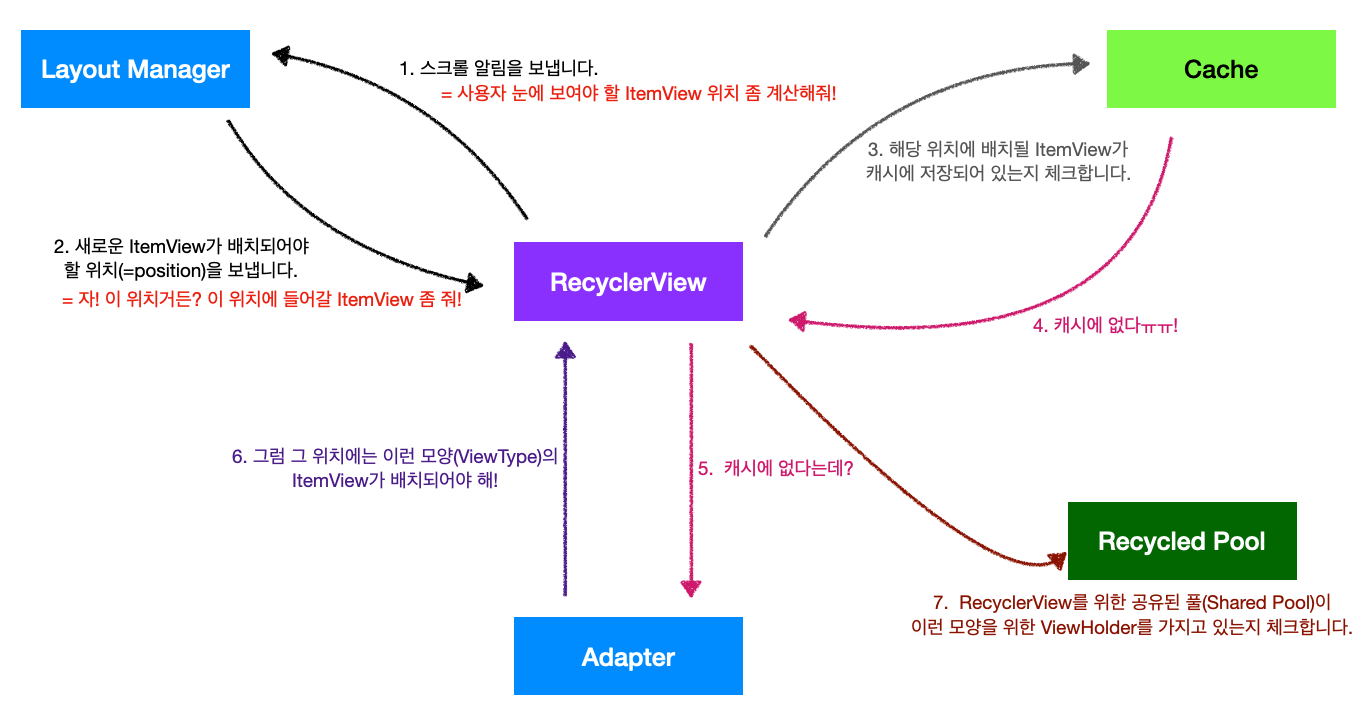
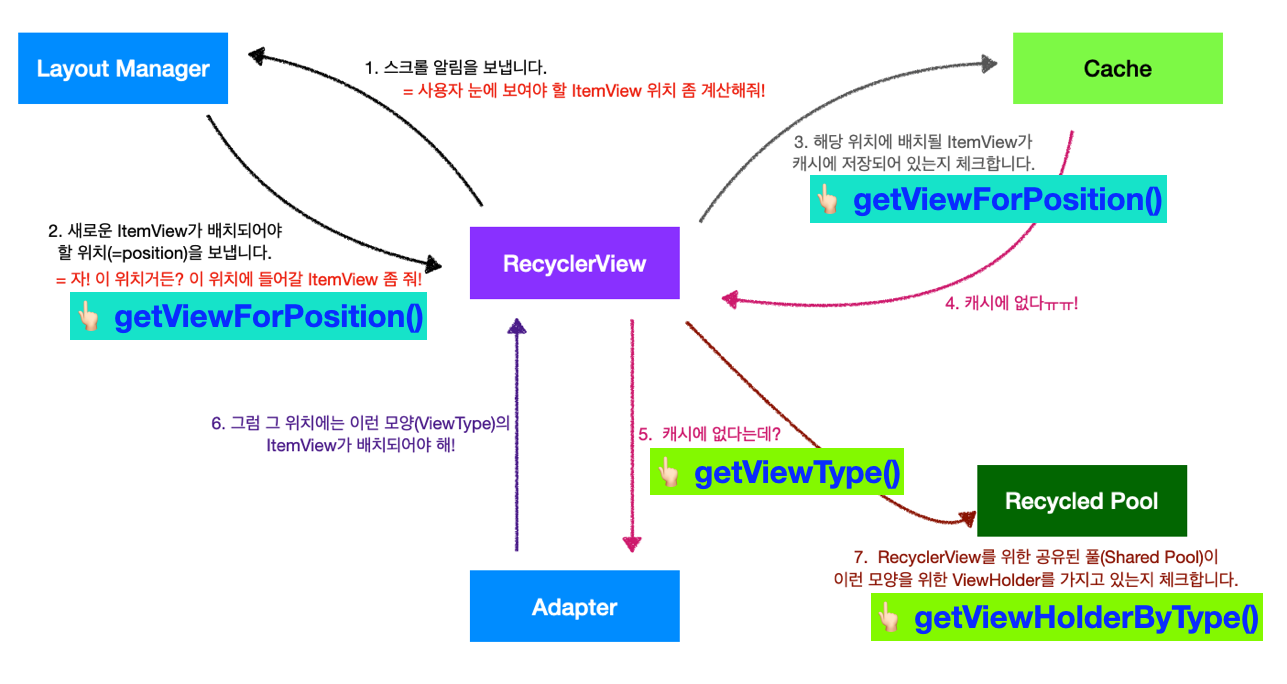
2021/04/05 블로그 포스팅

diff --git a/_posts/2021-03-10-recyclerview.md b/_posts/2021-03-10-recyclerview.md
@@ -33,75 +33,75 @@ categories: [안드로이드]
 
     * <img width="220" alt="02" src="https://user-images.githubusercontent.com/31889335/110606298-66ecb600-81cd-11eb-95e9-30a872fc3e92.png">
 
-    * (위 그림 참고) RecyclerView는 안드로이드 프레임워크에서 제공하는 뷰 레이아웃 중 하나입니다. RecyclerView의 모습은 위 그림(=이메일 앱에서 받은 편지 목록을 나타내는 화면)과 같습니다. '목록을 나타내는 뷰 레이아웃' 라고 생각하면 쉽습니다. 특히, 위 그림에서 빨간 박스로 표시한 부분이 목록을 나타내주는 뷰 안에서 '동일한 형태로 계속 반복'되고 있다는 것을 알 수 있습니다. '동일한 형태(=반복되는 Structure)'라는 말의 의미는 빨간 박스의 형태를 분석해보면 이해할 수 있습니다. 빨간 박스 안, 왼쪽 상단에 이메일을 보낸 사람의 이름을 보여주는 텍스트 뷰가 배치되어 있고, 그 아래 이메일의 제목을 보여주는 텍스트 뷰가 배치되어 있으며 그 아래에는 이메일의 내용을 미리 보여주는 텍스트 뷰가 배치되어 있습니다. 또 오른쪽 상단에 이메일을 받은 후 지난 시간을 보여주는 텍스트 뷰가 배치되어 있고, 그 아래 별표 모양의 뷰가 배치되어 있습니다. 이러한 모습인 빨간 박스 부분이 형태는 동일하게, 다만 데이터만 계속 바뀌면서! '목록을 나타내주는 뷰'를 이루고 있습니다. 즉, 목록을 나타내주는 뷰는 동일한 형태의 빨간 박스가 계속 반복되면서 '보낸 사람 이름', '이메일 제목', '이메일 내용' 등 빨간 박스 안 데이터만 바뀌는 뷰라고 이해할 수 있습니다.
+    * (위 그림 참고) RecyclerView는 안드로이드 프레임워크에서 제공하는 뷰 레이아웃 중 하나입니다. RecyclerView의 모습은 위 그림(=이메일 앱에서 받은 편지 목록을 나타내는 화면)과 같습니다. '목록을 나타내는 뷰 레이아웃' 라고 생각하면 쉽습니다. 특히, 위 그림에서 빨간 박스로 표시한 부분이 '동일한 형태로 계속 반복'되고 있다는 것을 알 수 있습니다. '동일한 형태(=반복되는 Structure)'라는 말의 의미는 빨간 박스의 형태를 분석해보면 이해할 수 있습니다. 빨간 박스 안을 보면 왼쪽 상단에는 이메일을 보낸 사람의 이름을 보여주는 텍스트 뷰가 배치되어 있고, 그 아래에는 이메일의 제목을 보여주는 텍스트 뷰가 배치되어 있으며 또 그 아래에는 이메일의 내용을 미리 보여주는 텍스트 뷰가 배치되어 있습니다. 오른쪽 상단에는 이메일을 받은 후 지난 시간을 보여주는 텍스트 뷰가 배치되어 있고, 그 아래에 별표 모양의 뷰가 배치되어 있습니다. 이러한  빨간 박스 부분이 __형태는 동일하게, 다만 데이터만 계속 바뀌면서__ '목록을 나타내주는 뷰'를 이루고 있습니다. 즉, 목록을 나타내주는 뷰는 동일한 형태의 빨간 박스가 계속 반복되면서 '보낸 사람 이름', '이메일 제목', '이메일 내용' 등 빨간 박스 안 데이터만 바뀌는 뷰라고 이해할 수 있습니다.
 
     * RecyclerView에서는 위에서 쉽게 표현하기 위해 '빨간 박스 부분'라고 언급한 부분을 'ItemView(아이템 뷰)'라고 부릅니다. 아이템 뷰들이 일렬로 나열되어 목록처럼 보이는 뷰 레이아웃을 RecyclerView라고 합니다. 
 
     * <img width="220" alt="02" src="https://user-images.githubusercontent.com/31889335/110943146-36984980-837e-11eb-9c35-e79f2202b2c3.png">
 
-    * (위 그림 참고 - [출처](http://www.digitstory.com/recyclerview-multiple-viewholders/)) 더 나아가서 RecyclerView를 구성하는 ItemView들이 모두 동일한 형태가 아닌 경우도 있을 수 있습니다. 위 그림을 보면 파란색 박스 부분과 핑크색 박스 부분은 둘 다 하나의 RecyclerView를 구성하는 ItemView지만 두 ItemView의 형태가 동일하지 않습니다. 파란색 박스 부분과 달리 핑크색 박스 부분에는 메시지를 표시하는 텍스트 뷰가 포함되어 있습니다. RecyclerView는 이렇게 목록을 이루는 ItemView의 형태가 동일하지 않은 경우에도 하나의 목록으로 구현할 수 있도록 도와줍니다.
+    * (위 그림 참고 - [출처](http://www.digitstory.com/recyclerview-multiple-viewholders/)) 더 나아가서 RecyclerView를 구성하는 ItemView들이 모두 동일한 형태가 아닌 경우도 있을 수 있습니다. 위 그림을 보면 파란색 박스 부분과 핑크색 박스 부분은 둘 다 하나의 RecyclerView를 구성하는 ItemView지만 두 ItemView의 형태가 동일하지 않습니다. 파란색 박스 부분과 달리 핑크색 박스 부분에는 메시지를 표시하는 텍스트 뷰가 포함되어 있습니다. RecyclerView는 이렇게 목록을 이루는 ItemView의 형태가 동일하지 않은 경우에도 하나의 목록으로 구현할 수 있도록 도와줍니다. 또한 ItemView의 형태를 'ItemViewType' 또는 'ViewType' 이라고 합니다.
 
 * __안드로이드 프레임워크가 제공하는 RecyclerView는 어디에 구현되어 있을까?__
 
-    * RecyclerView는 Android Jetpack의 구성 요소 중 하나입니다. 즉, 안드로이드 프레임워크에서 라이브러리 형식으로 제공하고 있어 개발자는 이 라이브러리를 가져다 사용하면 되고 원하는 모양으로 만들기 위해 적절히 응용하기만 하면 됩니다.
+    * RecyclerView는 Android Jetpack의 구성 요소(Component) 중 하나입니다. 즉, 안드로이드 프레임워크에서 라이브러리 형식으로 제공하고 있기 때문에 개발자는 RecyclerView에 관련된 라이브러리를 가져다 사용하면 되고 원하는 모양으로 만들기 위해 적절히 응용하기만 하면 됩니다.
 
     * <img width="886" alt="03" src="https://user-images.githubusercontent.com/31889335/110795213-f1aadf00-82b9-11eb-8af6-43a6d030c511.png">
 
-    * (위 그림 참고) [Jetpack RecyclerView에 관한 라이브러리 문서](https://developer.android.com/jetpack/androidx/releases/recyclerview?hl=ko)를 보면 RecyclerView는 __androidx.recyclerview__ 라는 이름의 패키지로 제공되는 Jetpack 라이브러리임을 알 수 있습니다. 2018년 12월에 1.1.0-alpha01 버전이 처음 배포되었고 최근 2021년 2월까지 지속적으로 업데이트되고 있는 라이브러리임을 알 수 있습니다. androidx.recyclerview 패키지 안에는 2개의 API가 포함되어 있는데 이 2개의 API는 __androidx.recyclerview.widget__ 과 __androidx.recyclerview.selection__ 이라는 패키지로 묶여 제공됩니다. 
+    * (위 그림 참고) [Jetpack RecyclerView에 관한 라이브러리 문서](https://developer.android.com/jetpack/androidx/releases/recyclerview?hl=ko)를 보면 RecyclerView는 __androidx.recyclerview__ 라는 이름의 패키지로 제공되는 Jetpack 라이브러리임을 알 수 있습니다. 2018년 12월에 1.1.0-alpha01 버전이 처음 배포되었고 최근 2021년 2월까지 지속적으로 업데이트되고 있는 라이브러리입니다. androidx.recyclerview 패키지 안에는 2개의 API가 포함되어 있는데 이 API는 __androidx.recyclerview.widget__ 과 __androidx.recyclerview.selection__ 이라는 패키지로 묶여 제공되고 있습니다.
 
-        * 패키지(Package) : 자바에서 클래스를 체계적으로 관리하기 위해 사용하는 것입니다. 패키지의 형태는 파일 시스템의 '폴더'와 비슷합니다. 하지만 '폴더'와 자바의 '패키지'의 차이점은 패키지는 자바 클래스를 유일하게 만들어주는 식별자 역할도 한다는 점입니다. 예를 들어, Test라는 이름의 자바 클래스가 존재하고 이 클래스가 com.android라는 이름의 패키지 안에 포함된다고 가정해봅시다. 이 때 Test클래스의 전체 이름을 com.android.Test.class 라고 부를 수 있습니다. 따라서 클래스의 이름이 같아도 다른 패키지에 포함되어 있으면 서로 다른 클래스로 인식됩니다. (참고 - https://yolojeb.tistory.com/8)
+        * 패키지(Package) : 자바에서 클래스를 체계적으로 관리하기 위해 사용하는 것입니다. 패키지의 형태는 파일 시스템의 '폴더'와 비슷합니다. 하지만 '폴더'와 자바의 '패키지'의 차이점은 패키지는 자바 클래스를 유일하게 만들어주는 식별자 역할도 한다는 점입니다. 예를 들어, Test라는 이름의 자바 클래스가 존재하고 이 클래스가 com.android라는 이름의 패키지 안에 포함된다고 가정해봅시다. 이 때 Test 클래스의 전체 이름을 com.android.Test.class 라고 부를 수도 있습니다. 따라서 클래스의 이름이 같아도 다른 패키지에 포함되어 있으면 서로 다른 클래스로 인식됩니다. (참고 - https://yolojeb.tistory.com/8)
         
-        * androidx.recyclerview 라는 이름의 패키지는 하위 폴더로 widget과 selection 라는 폴더를 가지고 있는 것입니다. 또한 각 폴더 안에 RecyclerView를 동작하게 하는 내부 클래스들이 실제로 구현되어 있습니다. 내부 클래스 파일들이 폴더(패키지)로 묶여 제공되는 것입니다.
+        * androidx.recyclerview 라는 이름의 패키지는 하위 폴더로 widget과 selection 라는 폴더를 가지고 있는 것입니다. 또한 각 폴더 안에 RecyclerView를 동작하게 하는 내부 클래스들이 실제로 구현되어 있습니다. 내부 클래스 파일들이 패키지로 묶여 제공되는 것입니다.
 
 * __RecyclerView가 왜 등장했을까?(ListView(리스트 뷰) 라는 것이 있었다!)__
 
-    * RecyclerView가 등장하기 전, 안드로이드 프레임워크은 '목록 뷰'를 만들 때 사용하도록 [ListView](https://developer.android.com/reference/android/widget/ListView) 라는 것을 제공했습니다. 이 ListView를 사용해도 RecyclerView와 모양이 비슷한 '목록 뷰'를 만들 수 있습니다. 또한 ListView는 API level 1(Android 1.0) 때 등장한 것으로 안드로이드 프레임워크이 꽤 오랫동안 제공하던 API였습니다. 그럼 이미 ListView라는 것이 존재함에도 불구하고 2018년에 왜 RecyclerView가 새롭게 등장했을까요?
+    * RecyclerView가 등장하기 전, 안드로이드 프레임워크는 '목록 뷰'를 만들 때 사용하도록 [ListView](https://developer.android.com/reference/android/widget/ListView) 라는 것을 제공했습니다. 이 ListView를 사용해도 RecyclerView와 모양이 비슷한 '목록 뷰'를 만들 수 있습니다. 또한 ListView는 API level 1(=Android 1.0 버전 때 출시된 API) 때 등장한 것으로 안드로이드 프레임워크가 꽤 오랫동안 제공하던 API였습니다. 그럼 이미 ListView라는 것이 존재함에도 불구하고 2018년에 왜 RecyclerView가 새롭게 등장했을까요?
 
-    * ListView에는 고질적인 문제가 있었기 때문입니다. ListView에 들어가는 ItemView의 갯수가 수백 개, 수천 개 이상으로 많아질 경우 ListView가 ItemView를 생성하는 __속도가 매우 느려졌기__ 때문입니다. 특히, 안드로이드의 초창기 디바이스는 메모리 용량이 요즘의 디바이스에 비해 매우 작았고 그로 인해 메모리가 제한적이어서 더욱 느렸습니다. 따라서 ListView를 사용해 한 번에 많은 수의 ItemView를 생성하는 것이 쉽지 않았습니다. 즉, ListView에 많은 수의 ItemView를 넣으면 앱 성능(App Performance)적인 측면에서 좋지 않았습니다.
+    * ListView에는 고질적인 문제가 많았기 때문입니다. ListView에 들어가는 ItemView의 갯수가 수백 개, 수천 개 이상으로 많아질 경우 ListView가 ItemView를 생성하는 __속도가 매우 느려지는__ 문제가 존재했습니다. 특히, 안드로이드 운영체제를 탑재했던 옛날 디바이스는 메모리 용량이 요즘의 디바이스에 비해 매우 작았고 그로 인해 메모리가 제한적이어서 더욱 느렸습니다. 따라서 ListView를 사용해 한 번에 많은 수의 ItemView를 생성하는 것이 쉽지 않았습니다. 즉, ListView에 많은 수의 ItemView를 넣으면 앱 성능(App Performance)적인 측면에서 좋지 않았습니다.
 
-    * 그렇다면 어떻게 해야 많은 수의 ItemView를 한 번에 빠르게 만들 수 있을까요? 이에 대한 해결책으로 많은 개발자들은 '속임수(smoke and mirrors = 진실 은폐)'를 사용하는 방법을 선택했습니다. 속임수는 바로 __유저의 눈에 당장 보이는 ItemView만 생성하자!__ 였습니다. ListView가 처음 뜨는 화면에는 유저의 눈에 당장 보여야 하는 ItemView만 한 번에 생성하여 보여주고, 그 후에 유저가 스크롤을 하게 되어 새로운 ItemView들이 새로 보이기 시작하면 그 때 새롭게 보이는 ItemView만 계속적으로 생성하는 방법입니다. 마치 [이 영상](https://youtu.be/t8T8bStabq0?t=100)에서 강아지가 기차를 타고 가는데 기찻길을 직접 놓으면서 가는 것과 비슷한 방법입니다.(~~링크로 걸어 놓은 애니메이션 어렸을 때 많이 봤었는데 .. RecyclerView 공부하다가 추억에 빠진다 ㅎㅎ~~)
+    * 그렇다면 어떻게 해야 많은 수의 ItemView를 한 번에 빠르게 만들 수 있을까요? 이에 대한 해결책으로 많은 개발자들은 '속임수'를 사용하는 방법을 선택했습니다. 이 속임수는 바로 __유저의 눈에 당장 보이는 ItemView만 생성하자!__ 였습니다. ListView가 처음 뜨는 화면에는 유저의 눈에 당장 보여야 하는 ItemView만 한꺼번에 생성하여 보여주고, 그 후에 유저가 스크롤을 하게 되어 새로운 ItemView들이 새로 보여야 한다면 그 때 새롭게 보이는 ItemView만 생성하는 방법입니다. 마치 [이 영상](https://youtu.be/t8T8bStabq0?t=100)에서 강아지가 기차를 타고 가는데 기찻길을 직접 놓으면서 가는 것과 비슷한 방법입니다.(~~링크로 걸어 놓은 애니메이션 어렸을 때 많이 봤었는데 .. RecyclerView 공부하다가 추억에 빠진다 ㅎㅎ~~)
 
-    * 기존 ListView의 기본 내부 동작 원리는 앞서 설명한 것처럼 한 순간에 모든 ItemView를 생성하지 않고 유저의 눈에 보이는 ItemView만 생성함으로써 마치 ItemView를 생성하는 속도가 빠르게 보이는 것처럼 작동됐습니다.
+    * 즉, 기존 ListView의 내부 동작 원리에 의하면 한 순간에 모든 ItemView를 생성하지 않고 유저의 눈에 보이는 ItemView만 생성함으로써 마치 ItemView를 생성하는 속도가 빠르게 보이는 것 같았습니다.s
 
     * 이러한 내부 동작을 가능하게 하기 위해 ListView는 __Adapter__ 라는 것을 사용했습니다. Adapter는 ListView를 동작하게 하는 구성 요소(=Component, 컴포넌트) 중 하나입니다. Adapter는 ListView에 포함될 ItemView를 생성하고 ItemView에 데이터를 채워주는 역할을 했습니다. 개발자는 Adapter 클래스가 제공하는 getView()라는 메소드를 호출함으로써 Adapter가 생성하고 데이터까지 채워놓은 ItemView를 얻을 수 있습니다.(ListView 안에서 어느 위치(=position)에 어떤 ItemVIew가 들어가야 하는지도 Adapter가 알고 있었습니다.)  
  
-    * ListView는 앞서 설명했던 속임수 외에 또 다른 속임수가 하나 더 있었습니다. 위에서 ListView에 포함될 ItemView의 갯수가 100개지만 당장 유저의 눈에는 5개의 ItemView만 보이는 ListView가 존재한다면 이 ListView는 100개의 ItemView를 미리 모두 생성하지 않고 당장 보이는 5개의 ItemView만 생성하여 보여준다고 설명했습니다. 만약 유저가 스크롤을 내려서 6번째 ItemView가 새로 보여져야 한다면 어떤 일이 벌어질까요? ListView는 이 때 또 다른 속임수를 사용합니다. 이 때 Adapter는 새로운 ItemView를 생성하지 않고 __1번째 위치에 보여주기 위해 생성했던 ItemView를 그대로 재사용하여 6번째 ItemView로 제공__ 했습니다.(ItemView는 재사용하여 그대로 사용하고 6번째 ItemView에 들어갈 데이터만 변경해주는 방식입니다.) 단, 1번째 ItemView의 형태와 6번째 ItemView의 형태가 동일한 경우에만 재사용됩니다. 이러한 두 번째 속임수를 사용함으로써 6번째 ItemView를 생성하기 위해 사용되는 비용을 줄일 수 있었습니다.
+    * ListView는 앞서 설명했던 속임수 외에 또 다른 속임수가 하나 더 있었습니다. ListView에 포함될 ItemView의 갯수가 100개지만 당장 유저의 눈에는 5개의 ItemView만 보이는 ListView가 존재한다면 이 ListView는 100개의 ItemView를 미리 모두 생성하지 않고 당장 보이는 5개의 ItemView만 생성하여 보여준다고 설명했습니다. 만약 유저가 스크롤을 내린 행동의 결과로 6번째 ItemView가 새로 보여져야 한다면 어떤 일이 벌어질까요? 이 때 ListView는 또 다른 속임수를 사용합니다. 이 속임수는 바로 Adapter는 새로운 ItemView를 생성하지 않고 __1번째 위치에 보여주기 위해 생성했던 ItemView를 그대로 재사용하여 6번째 ItemView로 제공하자!__ 였습니다.(1번째 ItemView는 재사용하여 그대로 사용하고 6번째에 들어갈 데이터만 변경해주는 방식입니다.) 단, 1번째 ItemView의 ViewType과 6번째 ItemView의 ViewType이 동일한 경우에만 재사용됩니다.(=ItemView의 모양이 같아야함) 이러한 두 번째 속임수를 사용함으로써 6번째 ItemView를 생성하기 위해 사용되는 비용을 줄일 수 있었습니다.
 
-    * 점점 시간이 지나고.. ListView에는 이 두 개의 속임수를 사용한 기능 외에도 점점 더 많은 기능이 추가되어야 했습니다. 왜냐하면 ListView가 앱에서 너무 많이, 자주 사용되는 레이아웃이기 때문에 개발자들이 ListView API의 업데이트마다 요구하는 사항이 많아졌기 때문입니다. 따라서 Android API level이 새로 출시될 때마다 ListView에는 새로운 기능이 계속 추가되었습니다. ([여기](https://www.youtube.com/watch?v=wDBM6wVEO70)를 보면 ListView에 추가된 기능들을 확인할 수 있습니다.) Google은 점점 더 많아지는 요구 사항을 ListView API에 추가 구현하여 제공하려다 보니 너무 복잡해짐을 느꼈고 부가 기능들이 많아져 오히려 오작동을 하게 되는 경우도 있었습니다.
+    * 점점 시간이 지나고.. ListView에는 이 두 개의 속임수를 사용한 기능 외에도 점점 더 많은 기능이 추가되어야 했습니다. 왜냐하면 ListView가 앱에서 너무 많이, 자주 사용되는 레이아웃이기 때문에 개발자들이 ListView API의 업데이트마다 바라는 요구사항이 많아졌기 때문입니다. 따라서 Android API level이 새로 출시될 때마다 ListView에는 새로운 기능이 계속 추가되었습니다. Google은 점점 더 많아지는 요구 사항을 ListView API에 추가 구현하여 제공하려다 보니 너무 복잡해짐을 느꼈고 부가 기능들이 많아져 오히려 오작동을 일으키게 되는 경우도 있었습니다.
 
-    * 결국 많은 요구 사항들을 ListView에 추가하다 보니 안드로이드 프레임워크가 제공하는 __다른 뷰 레이아웃에서 이미 제공하고 있는 기능과 비슷한 기능들이 ListVie에 추가__ 되게 되었습니다. 예를 들어, ListView에 추가된 Selection이라는 기능은 View 클래스가 제공하는 Focus라는 기능과 역할이 중복되었습니다. View 클래스는 현재 포커스 된 뷰를 다루는 기능을 제공하고 있었습니다. 그러나 ListView의 Selection도 이와 비슷하게 현재 포커스 된 ItemView를 다루는 기능이였습니다. 또 추가된 ItemView 클릭 리스너 기능과 View 클릭 리스너 기능도 비슷한 기능이였습니다. ListView가 제공하는 ItemView 클릭 리스너를 구현하면 유저가 ItemView를 클릭했을 때 실행할 로직을 작성할 수 있었습니다. 그러나 View 클래스에서 제공하는 클릭 리스너를 사용해서도 ItemView를 클릭했을 때 실행할 로직을 작성할 수 있었습니다. (ItemView 클래스가 View 클래스를 상속했기 때문) 따라서 개발자들은 대체 어느 것을 사용해야 하는가에 관한 질문을 지속적으로 문의했습니다.
+    * 결국 많은 요구 사항들을 ListView에 추가하다 보니 ListView의 기능이 안드로이드 프레임워크에서 이미 제공하고 있는 기능과 비슷한 것들이 생겨나기 시작했습니다. 예를 들어, ListView에 추가된 Selection이라는 기능은 View 클래스가 제공하는 Focus라는 기능과 역할이 중복되었습니다. View 클래스는 현재 포커스 된 뷰를 다루는 기능을 제공하는 것이었고, ListView의 Selection도 이와 비슷하게 현재 포커스 된 ItemView를 다루는 기능이였습니다. 또한 ItemView 클릭 리스너 기능과 View 클릭 리스너 기능도 비슷한 기능이였습니다. ListView가 제공하는 ItemView 클릭 리스너를 구현하면 유저가 ItemView를 클릭했을 때 실행할 로직을 작성할 수 있었습니다. 그러나 View 클래스에서 제공하는 View 클릭 리스너를 사용해서도 ItemView를 클릭했을 때 실행할 로직을 작성할 수 있었습니다. (ItemView 클래스가 View 클래스를 상속했기 때문) 따라서 개발자들은 대체 어떤 클릭 리스너를 사용해야 하는지에 관한 질문을 지속적으로 문의하기도 했습니다.
 
     * ![05](https://user-images.githubusercontent.com/31889335/110972166-09a85e80-839f-11eb-90e1-0ce68ce5f4e3.gif)
 
-    * (위 영상 참고 - [출처](https://www.youtube.com/watch?v=8MIfSxgsHIs)) 그러나 ListView가 가지고 있는 이슈들 중 최고봉은 __ListView의 ItemView 애니메이션을 구현하는 것이 정말 정말 어렵다__ 라는 문제였습니다. [이 영상](https://www.youtube.com/watch?v=8MIfSxgsHIs)을 보면 ListView 애니메이션을 구현하는 것이 왜 어려운지 알 수 있습니다. 이 영상에서 구현하고자 하는 애니메이션은 ItemView를 클릭하면 해당 ItemView가 fade out(서서히 사라지기) 애니메이션 처리되면서 결과적으로는 완전히 사라지는 것입니다.
+    * (위 영상 참고 - [출처](https://www.youtube.com/watch?v=8MIfSxgsHIs)) 그러나 ListView가 가지고 있는 문제들 중 최고봉은 __ListView의 ItemView 애니메이션을 구현하는 것이 정말 정말 어렵다__ 라는 문제였습니다. [이 영상](https://www.youtube.com/watch?v=8MIfSxgsHIs)을 보면 ListView 애니메이션을 구현하는 것이 왜 어려운지 알 수 있습니다. 이 영상에서 구현하고자 하는 애니메이션은 ItemView를 클릭하면 해당 ItemView가 fade out(=서서히 사라지기) 애니메이션 처리되면서 마침내 완전히 사라지는(=메모리에서 제거) 효과입니다.
 
     * ![06](https://user-images.githubusercontent.com/31889335/110972820-c4d0f780-839f-11eb-8013-cccadcfd79be.gif)
 
     * (위 영상 참고) ItemView를 하나씩 클릭했을 때는 원하는 대로 잘 동작하는 것 같지만 위 영상처럼 여러 개의 ItemView를 클릭한 후 바로 ListView를 빠르게 스크롤하면 몇 개의 ItemView가 아무 데이터도 가지고 있지 않은 빈 모습으로 중간 중간 보이는 현상이 발생합니다. 
     
-    * 이러한 현상은 ListView의 동작 원리가 ItemView를 재사용하도록 동작하기 때문에 발생합니다. 먼저, 유저가 ItemView를 클릭하면 해당 ItemView에 fade out 효과가 적용되기 시작합니다. 하지만 유저가 클릭과 동시에 ListView를 아래로 빠르게 스크롤 한다면 클릭한 ItemView는 fade out 효과가 시작되자마자 화면 밖으로 나가게 되어 유저의 눈에 보이지 않는 범위에 포함되게 됩니다. 
+    * 이러한 현상은 ListView의 동작 원리가 ItemView를 재사용하도록 동작하기 때문에 발생합니다. 먼저, 유저가 ItemView를 클릭하면 해당 ItemView에 fade out 효과가 적용되기 시작합니다. 하지만 유저가 클릭과 동시에 ListView를 위로 빠르게 스크롤 한다면 클릭한 ItemView는 fade out 효과가 시작되자마자 화면 밖으로 나가게 되어 유저의 눈에 보이지 않는 범위에 포함되게 됩니다. 
     
     * ListView 내부 동작에 의하면 유저의 눈에 보이지 않는 ItemView는 새롭게 보일 ItemView로 재사용됩니다. 따라서 이 ItemView는 fade out이 진행되고 있음과 동시에 재사용될 ItemView로 선택되게 됩니다.(fade out 효과가 완전히 완료될 때까지 시간이 걸리기 때문에 fade out 효과가 진행되고 있는 도중에 재사용 대상으로 선택되는 것입니다.) 
     
-    * 하지만 해당 ItemView는 fade out 효과가 완전히 끝난 후에야 메모리 상에서 삭제됩니다. 즉, fade out 효과가 진행되고 있는 한 내부적으로는 메모리 상에서 이 ItemView에 해당하는 객체(object)가 존재합니다. 따라서 fade out 효과가 진행 중인 객체와 재사용될 ItemView로 선택된 객체는 내부적으로 동일한 객체가 됩니다. 
+    * 그러나 이 ItemView는 fade out 효과가 완전히 끝난 후에야 메모리 상에서 제거됩니다. 즉, fade out 효과가 진행되고 있는 한 내부적으로는 메모리 상에서 이 ItemView에 해당하는 객체(object)가 여전히 존재합니다. 따라서 fade out 효과가 진행 중인 객체와 재사용될 ItemView로 선택된 객체는 메모리적으로 동일한 객체입니다.
     
-    * fade out 효과가 완전히 끝나면 이 ItemView에 해당하는 객체는 메모리 상에서 삭제됩니다. 하지만 이 객체는 재사용되기로 선택된 객체이기도 하기 때문에 ListView의 끝에 다시 붙어야 합니다. 그러나 fade out 효과 완료로 인해 메모리 상에서 사라져 버렸으니 ListView 입장에서는 새로운 데이터를 세팅할 재사용 ItemView가 존재하지 않게 됩니다. 따라서 사용자의 눈에도 중간 중간 데이터가 세팅되지 않은 빈 공간이 보이게 됩니다. 이것을 ListView의 '붕괴(disruption) 현상'이라고 부릅니다.
+    * fade out 효과가 완전히 끝나면 이 ItemView에 해당하는 객체는 메모리 상에서 삭제됩니다. 하지만 이 객체는 재사용되기로 선택된 객체이기도 하기 때문에 ListView의 끝에 다시 붙어야 합니다. 그러나 fade out 효과 완료로 인해 메모리 상에서 사라져 버린 경우, ListView 입장에서는 새로운 데이터를 세팅할 재사용 ItemView를 메모리에서 찾지 못하게 됩니다. 따라서 사용자의 눈에도 중간 중간 데이터가 세팅되지 않은 빈 공간이 보이게 됩니다. 이것을 ListView의 '붕괴(disruption) 현상'이라고 부릅니다.
 
     * ![07](https://user-images.githubusercontent.com/31889335/111035271-f1971480-845c-11eb-8b41-1b3ea3898bd6.gif)
 
-    * (위 영상 참고) ListView의 붕괴 현상을 해결하기 위해 안드로이드 프레임워크가 제공하는 [ViewPropertyAnimator](https://developer.android.com/reference/android/view/ViewPropertyAnimator) API를 사용하면 해결할 수 있습니다.(ViewPropertyAnimator은 Android level 12 때 추가된 API입니다.) ViewPropertyAnimator를 사용하면 fade out 효과가 진행 중인 아이템 뷰는 아직 작업이 진행 중인 객체로 인식되어 재사용될 ItemView로 선택되지 않습니다. 따라서 위 영상처럼 붕괴 현상이 해결됩니다.
+    * (위 영상 참고) ListView의 붕괴 현상을 해결하기 위해 안드로이드 프레임워크가 제공하는 [ViewPropertyAnimator](https://developer.android.com/reference/android/view/ViewPropertyAnimator) API를 사용하면 됩니다.(ViewPropertyAnimator은 Android level 12 때 추가된 API입니다.) ViewPropertyAnimator를 사용하면 fade out 효과가 진행 중인 아이템 뷰는 아직 작업이 진행 중인 객체로 인식되어 재사용될 ItemView로 선택되지 않습니다. 따라서 위 영상처럼 붕괴 현상이 해결됩니다.
 
     * <img width="360" alt="02" src="https://user-images.githubusercontent.com/31889335/111036153-1c836780-8461-11eb-8a59-4e5bbc76ef4f.png">
 
-    * (위 그림 참고) 사람들은 ListView를 더욱 복잡한 레이아웃으로 변형하여 개발하기 시작했습니다. 심지어 위 그림의 오른쪽에서 볼 수 있는 것 같은 엇갈린 그리드 레이아웃(staggered grid)도 등장했습니다.(심지어 엇갈린 모양이 화면 크기에 반응형으로 달라지기까지 해야했습니다.) 이러한 것들을 기존의 ListView API를 사용하여 구현하려면 개발자는 굉장히 많은 코드 수정을 해야했습니다. 특히, ItemView의 재사용을 담당하는 Adpater 클래스의 수정이 많았습니다. 
+    * (위 그림 참고) 사람들은 ListView를 더욱 복잡한 레이아웃으로 변형하여 개발하기 시작했습니다. 심지어 위 그림의 오른쪽에서 볼 수 있는 것 같은 엇갈린 그리드 레이아웃(=staggered grid layout)도 등장했습니다. 더 나아가 엇갈린 그리드 모양이 화면 크기에 따라 반응형으로 달라지기까지 해야했습니다. 이러한 것들을 기존의 ListView API를 사용하여 구현하려면 개발자는 굉장히 많은 코드 수정을 해야했습니다. 특히, ItemView의 재사용을 담당하는 Adpater 클래스의 수정이 많았습니다. 
 
-    * 개발자들은 ListView를 더 잘 응용하기 위해 __ViewHolder 패턴__ 이라는 것을 등장시켜 개발하곤 했습니다.(ViewHolder 패턴에 대해서는 조금 아래에서 설명할 예정입니다.) Google Android API 팀은 ViewHolder 패턴을 사용한 가장 좋은 코드 예제를 ListView API에 추가하기로 결정했습니다.
+    * 이러한 상황에서 개발자들은 ListView를 더 잘 응용하기 위해 __ViewHolder 패턴__ 이라는 것을 등장시켜 개발하곤 했습니다.(ViewHolder 패턴에 대해서는 조금 아래에서 설명할 예정입니다.) Google Android API 개발 팀은 ViewHolder 패턴을 사용한 가장 좋은 코드 예제를 ListView API에 아예 추가하기로 결정했습니다.
 
-    * 더불어 기존 ListView 구현 시 구글은 개발자들에게 ItemView를 생성하는 로직(onCreate)과 생성된 ItemView에 데이터를 연결(binding)시키는 로직(onBind)을 분리하길 권장했습니다. 따라서 개발자들은 if 조건문을 통해 재사용될 ItemView가 존재하면 바로 데이터를 재사용될 ItemView에 연결하고, 재사용될 ItemView가 존재하지 않으면(null) 새로운 ItemView를 생성하는 코드를 추가해야 했습니다. 하지만 이러한 로직 분리 작업을 많은 개발자들이 쉽게 까먹는 경우가 많았고, 그로 인해 ListView의 ItemView 재사용 기능이 동작하지 않게 되어 앱 성능을 악화시키는 원인이 되었습니다.
+    * 더불어 ListView를 구현할 때는 개발자이 직접 ItemView를 생성하는 로직(onCreate)과 생성된 ItemView에 데이터를 연결(binding)시키는 로직(onBind)을 분리하여 작성해야 했습니다. 즉, 개발자들은 if 조건문을 통해 재사용될 ItemView가 존재하면 바로 데이터를 해당 ItemView에 binding하고, 재사용될 ItemView가 존재하지 않으면(=if null) 새로운 ItemView를 생성하는 코드를 작성해야 했습니다. 하지만 이러한 로직 분리 작업을 많은 개발자들이 쉽게 까먹는 경우가 많았고, 그로 인해 ListView의 ItemView 재사용 기능이 정상적으로 동작하지 않게 되어 앱 성능을 악화시키는 원인이 되기도 했습니다.
  
-    * 또한 ListView에 보여질 데이터가 바뀐 경우, __기존의 ListView의 Adapter는 데이터가 변경되었다는 사실만 알 수 있을 뿐 구체적으로 목록에서 몇 번째 데이터가 변경되었는지 인식할 수 없었습니다.__ 예를 들어, 사용자의 눈에 보이고 있는 ItemView 중 세 번째 ItemView에 연결된 데이터가 어떠한 처리에 의해 바뀌게 되면 Adapter는 데이터가 바뀌었다는 사실만 알 뿐 몇 번째 ItemView에 연결된 데이터를 바꿔야 하는지는 알 수 없었습니다. 따라서 세 번째 ItemView의 데이터를 바꾸기 위해 모든 ItemView에 데이터를 다시 연결해야 했습니다. 이러한 문제는 애니메이션 처리를 더욱 어렵게 했습니다.
+    * 또한 ListView에 보여질 데이터가 변경된 경우, __ListView의 Adapter는 데이터가 변경되었다는 사실만 알 수 있을 뿐 구체적으로 목록에서 몇 번째 데이터가 변경되었는지 알 수 없었습니다.__ 예를 들어, 사용자의 눈에 보이고 있는 ItemView 중 세 번째 ItemView에 연결된 데이터가 어떠한 처리에 의해 바뀌게 되면 Adapter는 데이터가 바뀌었다는 사실만 알 뿐 몇 번째 ItemView에 연결된 데이터를 바꿔야 하는지는 알 수 없었습니다. 따라서 세 번째 ItemView의 데이터를 바꾸기 위해 모든 ItemView에 데이터를 다시 binding해야 했습니다. 이러한 문제는 애니메이션 처리까지 더욱 어렵게 했습니다.
 
-    * 이렇게 다양한 곳에서 문제점이 등장하기 시작하자 Google Android API 팀은 기존 ListView가 가지고 있던 문제점들을 해결한 새로운 API인 RecyclerView를 개발해 내놓게 되었습니다. RecyclerView는 ListView가 가지고 있던 실수와 문제들이 또 다시 반복되지 않도록 철저히 구현되었습니다. Google I/O 발표에 따르면 'Google Android API 개발 팀은 ListView를 통해 기존 ListView 설계에 존재했던 실수들을 깨닫게 되었다' 라고 말하면서 이 실수들을 다시는 반복하지 않고자 RecyclerView를 개발하게 되었다고 말하기도 합니다.
+    * 이렇게 다양한 곳에서 문제점이 등장하기 시작하자 Google Android API 개발 팀은 기존 ListView가 가지고 있던 문제점들을 해결한 새로운 API인 RecyclerView를 개발해 내놓게 되었습니다. RecyclerView는 ListView가 가지고 있던 실수와 문제들이 또 다시 반복되지 않도록 철저히 구현되었습니다. Google I/O 2016 발표에 따르면 'Google Android API 개발 팀은 ListView를 통해 기존 ListView 설계에 존재했던 실수들을 깨닫게 되었다' 라고 말하면서 이 실수들을 다시는 반복하지 않고자 RecyclerView를 개발하게 되었다고 말합니다.
 
 * __RecyclerView의 내부 동작__
 
@@ -109,7 +109,7 @@ categories: [안드로이드]
 
     * ![09](https://user-images.githubusercontent.com/31889335/111988900-73212d80-8b54-11eb-97ca-621a242dc35b.png)
 
-    * (위 그림 참고) RecyclerView 내부 아키텍처를 구성하는 컴포넌트는 RecyclerView, LayoutManager, Item Animator, Adapter 등 입니다. 그 중 __Layout Manager__, __Item Animator__, __Adapter__ 라는 3가지 컴포넌트가 가장 중요합니다. Layout Manager는 ItemView를 올바른 위치에 배치해주는 컴포넌트이고, Item Animator는 ItemView의 애니메이션을 담당하는 컴포넌트 입니다. Adapter는 RecyclerView에 ItemView를 제공해주는 컴포넌트 입니다. 이 3가지 컴포넌트가 적절하게 상호작용한 결과로 ItemView를 RecyclerView(목록형 레이아웃) 컴포넌트 안에 배치해줍니다.
+    * (위 그림 참고) RecyclerView 내부 아키텍처를 구성하는 컴포넌트는 RecyclerView, LayoutManager, Item Animator, Adapter 등 입니다. 그 중 __Layout Manager__, __Item Animator__, __Adapter__ 라는 3가지 컴포넌트가 중요합니다. Layout Manager는 ItemView를 올바른 위치(=position)에 배치해주는 컴포넌트이고, Item Animator는 ItemView의 애니메이션을 담당하는 컴포넌트 입니다. Adapter는 RecyclerView에 ItemView를 제공해주는 컴포넌트입니다. 이 3가지 컴포넌트가 적절하게 상호작용해야만 ItemView를 RecyclerView 컴포넌트 안에 바르게 배치할 수 있습니다.
 
     * 이렇게 RecyclerView, Layout Manager, Item Animator, Adapter 등의 컴포넌트가 서로 상호작용하여 하나의 목록형 레이아웃을 동작하게끔 만들기 때문에 RecyclerView 내부 아키텍처를 '컴포넌트 기반 아키텍처'라고 부릅니다.
 
@@ -119,42 +119,72 @@ categories: [안드로이드]
 
     * ![10](https://user-images.githubusercontent.com/31889335/111990090-f4c58b00-8b55-11eb-9461-f8f582a7320a.png)
 
-    * (위 그림 참고) Layout Manager는 목록형 레이아웃(=RecyclerView)의 모습을 __선형(Linear)__ 으로 구성할 수 있도록 또는 __격자형(Grid)__ 으로 구성할 수 있도록 또는 __엇갈린 격자형(Staggerd Grid)__ 으로 구성할 수 있게 해주는 작업을 담당하는 컴포넌트입니다.
+    * (위 그림 참고) Layout Manager는 RecyclerView의 모습을 __선형(Linear)__ 으로 구성할 수 있도록 또는 __격자형(Grid)__ 으로 구성할 수 있도록 또는 __엇갈린 격자형(Staggerd Grid)__ 으로 구성할 수 있게 해주는 작업을 담당하는 컴포넌트입니다.
 
-    * 즉, Layout Manger는 RecyclerView의 모양을 만드는 작업을 책임지고 RecyclerView 모양에 따라 ItemView를 적절한 위치에 배치하는 작업을 담당합니다. Layout Manager에게 이러한 책임이 부여되었기 때문에 RecyclerView 본인은 자기 자신이 선형 모양이 될지, 격자형 모양이 될지, 엇갈린 격자형 모양이 될지에 관해 알고 있지 않고, 각 ItemView가 어느 위치에 놓여야 하는지에 관해서도 관여하지 않습니다.
+    * 즉, Layout Manger는 RecyclerView의 모양을 만드는 작업을 책임지고, RecyclerView 모양에 따라 ItemView를 적절한 위치(=position)에 배치하는 작업을 담당합니다. Layout Manager에게 이러한 책임이 부여되었기 때문에 RecyclerView 본인은 자기 자신이 선형 모양이 될지, 격자형 모양이 될지, 엇갈린 격자형 모양이 될지에 관해 알고 있지 않고 각 ItemView가 어느 위치에 놓여야 하는지에 대해서도 관여하지 않습니다.
 
     * ![11](https://user-images.githubusercontent.com/31889335/111997193-22aecd80-8b5e-11eb-9e06-5355fa2ac121.png)
 
-    * (위 그림 참고) 만약 유저가 RecyclerView를 스크롤하고 있는 상황이라면 어떻게 동작할까요? RecyclerView는 유저의 손가락(스크롤 인식)과만 상호작용 합니다. 만약 Linear 모양의 RecyclerView가 존재하고 유저가 목록을 더 보기 위해 위로 스크롤했다고 가정해봅시다. 이러한 경우, RecyclerView는 유저 손가락과의 상호작용 결과로 새로운 ItemView를 보여줘야 한다는 것을 인식합니다. 하지만 새로운 ItemView를 그래서 어디에 배치해야 할 지에 관해서는 RecyclerView는 모르고 Layout Manager가 알고 있습니다. 따라서 RecyclerView는 Layout Manager에게 스크롤되어 새로운 ItemView를 보여줘야 한다고 알립니다. 스크롤 알림을 받은 Layout Manager는 적절한 위치(=이 상황에서는 목록 가장 아래에 새로운 ItemView 추가)에 데이터가 연결된 ItemView를 배치합니다. 즉, Layout Manager가 ItemView를 적절한 위치에 배치하는 순간에는 데이터가 ItemView에 연결되어 있는 상태입니다.
+    * (위 그림 참고) 만약 유저가 RecyclerView를 스크롤하고 있는 상황이라면 어떻게 동작할까요? RecyclerView는 유저의 손가락(스크롤 인식)과만 상호작용 합니다. 만약 Linear 모양의 RecyclerView가 존재하고 유저가 목록을 더 보기 위해 위로 스크롤했다고 가정해봅시다. 이러한 경우, RecyclerView는 유저 손가락과 상호작용의 결과로 새로운 ItemView를 보여줘야 한다는 것을 인식합니다. 하지만 새로운 ItemView를 그래서 어디에 배치해야 할 지에 관해서는 RecyclerView는 모르고 Layout Manager가 알고 있습니다. 따라서 RecyclerView는 Layout Manager에게 스크롤에 의해 새로운 ItemView를 보여줘야 한다고 알립니다. 스크롤 알림을 받은 Layout Manager는 적절한 위치(=위 상황에서는 목록 가장 아래에 새로운 ItemView를 추가해야 함)에 데이터가 연결된 ItemView를 배치합니다. 즉, Layout Manager가 ItemView를 적절한 위치에 배치하는 순간에는 데이터가 ItemView에 binding되어 있는 상태입니다.
 
 * __Adapter가 뭘까?__
 
-    * RecyclerView도 ListView와 마찬가지로 Adapter에 의존합니다. RecyclerView에서의 Adapter도 ItemView를 생성(create)하는 작업을 담당하는 컴포넌트 입니다. 하지만 ListView의 Adapter와 다른 점은 ItemView 생성 외에도 __ViewHolder라는 것을 생성__ 하는 작업도 담당하고 있다는 점입니다. __ViewHolder란__ ItemView 재사용을 위해 요소들을 추적 관측하는 용도로 사용하는 컴포넌트 입니다.(ViewHolder에 관해서는 조금 더 아래에서 설명할 예정입니다.)
+    * RecyclerView도 ListView와 마찬가지로 Adapter에 의존합니다. RecyclerView에서의 Adapter도 ItemView를 생성(create)하는 작업을 담당하는 컴포넌트 입니다. 하지만 ListView의 Adapter와 다른 점은 ItemView 생성 외에도 __ViewHolder라는 것을 생성__ 하는 작업도 담당하고 있다는 점입니다. (ViewHolder에 관해서는 조금 더 아래에서 설명할 예정입니다.)
 
-    * 또한 Adapter는 Data Set이 변경되었을 때 RecyclerView에게 알리는(=notify) 작업도 담당하며 유저가 ItemView를 클릭할 때 발생하는 상호작용(=클릭 리스너) 처리 작업도 담당합니다. 또 RecyclerView를 구성하는 ItemView의 형태가 동일하지 않고 다른 경우를 처리하는 작업도 Adapter가 담당합니다.
+    * 또한 Adapter는 Data Set이 변경되었을 때 RecyclerView에게 알리는(=notify) 작업도 담당하며 유저가 ItemView를 클릭할 때 발생하는 상호작용(=클릭 리스너) 처리 작업도 담당합니다. 또 RecyclerView를 구성하는 ItemView의 형태(=ViewType)가 동일하지 않고 다른 경우를 처리하는 작업도 Adapter가 담당합니다.
 
-* __ViewHolder가 뭘까?__
+* __ViewHolder의 lifecycle - 탄생편__
 
-    * 앞에서 Adapter가 생성한다고 언급한 ViewHolder는 무엇일까요? ViewHolder의 life cycle(=생명 주기, 탄생에서부터 소멸까지 과정)을 아는 것이 굉장히 중요합니다.
+    * 앞에서 Adapter가 생성한다고 했던 ViewHolder는 무엇일까요? ViewHolder가 무엇인지 알기 위해서는 __ViewHolder의 life cycle(=생명 주기, 탄생에서부터 소멸까지 과정)__ 을 아는 것이 굉장히 중요합니다.
 
-    * RecyclerView의 내부 동작을 구성하는 컴포넌트는 앞에서 언급한 Layout Manager, Adapter 등 외에도 Cache, Recycled Pool 등이 있습니다.
+    * RecyclerView의 내부 동작을 구성하는 컴포넌트는 앞에서 언급한 Layout Manager, Adapter 등 외에도 __Cache, Recycled Pool__ 등이 있습니다. 그럼 이제 이러한 각 컴포넌트들이 어떻게 상호작용하는지 알아봅시다!
 
-    * ![12](https://user-images.githubusercontent.com/31889335/112832993-0f0ce500-90d1-11eb-9dd9-3df62ccc6b6e.png)
+    * ![12](https://user-images.githubusercontent.com/31889335/113571490-6ff86800-9651-11eb-8298-f6db1e1b7520.png)
 
-    * (위 그림 참고) 위에서 RecyclerView가 유저와의 상호작용의 결과, 스크롤 알림을 Layout Manager에게 알린다고 설명했습니다. 알림을 받은 Layout Manager는 몇 번째 위치(=position)에 새로운 ItemView가 배치되어야 하는지를 계산하고 이 위치를 다시 RecyclerView에게 알립니다. RecyclerView에게 위치를 알리는 이유는 RecyclerView에게 해당 위치의 뷰를 달라고 요청하는 것입니다. 그럼 RecyclerView는 Cache(=캐시)에서 해당 위치에 배치하도록 지정된 ItemView가 있는지 확인합니다.(RecyclerView 내부 동작 원리 상 일정 양의 ItemView를 캐시에 저장해놓기 때문) 만약 해당 위치에 배치되어야 하는 ItemView가 Cache에 저장되어 있다면 RecyclerView는 해당 ItemView를 다시 Layout Manager에게 전달합니다.
+    * (위 그림 참고) RecyclerView는 유저와의 상호작용의 결과인 스크롤 알림을 Layout Manager에게 알립니다. 알림을 받은 Layout Manager는 몇 번째 위치(=position)에 새로운 ItemView가 배치되어야 하는지를 계산하고 이 위치를 다시 RecyclerView에게 알립니다. Layout Manager는 RecyclerView에게 자신이 계산한 위치를 알림으로써 해당 위치에 배치해야 하는 ItemView를 달라고 요청하는 것입니다. 그럼 RecyclerView는 Cache(=캐시)에 해당 위치에 배치하도록 지정된 ItemView가 저장되어 있는지 확인합니다.(RecyclerView 내부 동작 원리 상 일정 양의 ItemView를 캐시에 저장해놓기 때문) 만약 그 위치에 배치되어야 하는 ItemView가 Cache에 저장되어 있다면 RecyclerView는 해당 ItemView를 다시 Layout Manager에게 전달합니다.
     
         * __Cache(캐시)__ : 임시 저장 공간, 저장해 놓은 것을 빠르게 찾을 수 있으나 저장 공간의 용량이 작아 많은 양을 저장할 순 없다.
 
-    * ![13](https://user-images.githubusercontent.com/31889335/112835413-331df580-90d4-11eb-8a6b-954550227d40.png)
+    * ![13](https://user-images.githubusercontent.com/31889335/113571563-94544480-9651-11eb-8909-bf5b7cbf3068.png)
 
-    * (위 그림 참고) 하지만 만약 해당 위치에 배치될 ItemView가 캐시에 저장되어 있지 않다면 RecyclerView는 Adapter에게 해당 위치에 배치될 ItemView의 모양(ViewType)을 물어봅니다. (위에서 RecyclerView를 구성하는 ItemView가 모두 동일한 모양일 수도 있지만 다른 모양의 ItemView들이 섞여서 하나의 RecyclerView를 구성할 수도 있다고 설명했습니다.) 그럼 Adapter는 해당 위치에 배치될 ItemView의 모양을 RecyclerView에게 알려줍니다. 이번에는 RecyclerView가 Recycled Pool에 이 모양을 위한 ViewHolder가 있는지 체크합니다.
+    * (위 그림 참고) 하지만 만약 해당 위치에 배치될 ItemView가 캐시에 저장되어 있지 않다면 RecyclerView는 Adapter에게 이 위치에 배치될 ItemView의 모양(=ViewType)을 물어봅니다. (위에서 RecyclerView를 구성하는 ItemView가 모두 동일한 모양일 수도 있지만 다른 모양의 ItemView들이 섞여서 하나의 RecyclerView를 구성할 수도 있다고 설명했습니다.) 그럼 Adapter는 해당 위치에 배치될 ItemView의 ViewType을 RecyclerView에게 알려줍니다. 이번에는 RecyclerView가 Recycled Pool에게 이 ViewType을 위한 ViewHolder가 있는지 체크 요청합니다.
 
-    * ![14](https://user-images.githubusercontent.com/31889335/112836310-60b76e80-90d5-11eb-9353-de00083e4af9.png)
+    * ![14](https://user-images.githubusercontent.com/31889335/113571697-d41b2c00-9651-11eb-9e93-c69c01889728.png)
 
-    * (위 그림 참고) 만약 Recycled Pool에 해당 모양을 위한 ViewHolder가 존재하지 않는다면 RecyclerView는 Adapter에게 해당 모양을 위한 새로운 ViewHolder 생성을 요청합니다.
+    * (위 그림 참고) 만약 Recycled Pool에 해당 ViewType을 위한 ViewHolder가 존재하지 않는다면 RecyclerView는 Adapter에게 해당 ViewType을 위한 새로운 ViewHolder 생성을 요청합니다.
 
-    * ![15](https://user-images.githubusercontent.com/31889335/112836849-1387cc80-90d6-11eb-825e-71f380552191.png)
+    * ![15](https://user-images.githubusercontent.com/31889335/113578298-8c9a9d00-965d-11eb-8fd3-ad45d3d682fb.png)
 
-    * (위 그림 참고) 그러나 만약 Pool에 해당 모양을 위한 ViewHolder가 존재한다면 RecyclerView는 Adapter에게 이 ViewHolder를 ItemView가 배치될 위치와 연결(bind)해달라고 요청합니다. 위치와 연결된 ViewHolder는 Layout Manager에게 최종적으로 전달됩니다.
+    * (위 그림 참고) 그러나 만약 Pool에 해당 ViewType을 위한 ViewHolder가 존재한다면 RecyclerView는 Adapter에게 이 ViewHolder를 ItemView가 배치될 위치(=position)에 연결(bind)해달라고 요청합니다. 그리고 Adapter는 RecyclerView에게 해당 ItemView를 전달하고 RecyclerView는 이 ItemView를 다시 Layout Manager에게 최종적으로 전달합니다.
+
+    * ![16](https://user-images.githubusercontent.com/31889335/113577476-4a249080-965c-11eb-8591-62c535841482.png)
+
+    * (위 그림 참고) 결과적으로 Layout Manager는 해당 위치에 ItemView를 배치하고 RecyclerView에게 이를 알립니다. 그러면 RecyclerView는 Adapter에게 해당 position에 ItemView가 잘 배치되었다고 알립니다.
+
+    * 여기까지의 과정은 __ViewHolder가 탄생하는 순간의 과정__ 을 말로 쉽게 풀어 쓴 것입니다. 화살표에 적힌 각각의 설명은 실제로는 위 그림들에 명시된 함수 호출에 의해 이루어집니다. 
+
+    * 그리고 다시 한 번 전체 과정을 살펴보면 Layout Manager가 어떤 position에 배치될 ItemView를 요청할 경우 해당 ItemView가 Cache에 저장되어 있다면 Adapter를 거치지 않고 바로 Layout Manager에게 해당 ItemView를 전달할 수 있음을 깨달을 수 있습니다. 
+
+* __ViewHolder의 lifecycle - 재활용편__
+
+    * 사용자가 스크롤을 올려버려서 기존의 ItemView가 화면에서 사라지는 경우 RecyclerView는 이 ItemView를 재사용한다고 했습니다. 이 과정을 자세히 알아봅시다.
+
+    * ![17](https://user-images.githubusercontent.com/31889335/113579570-75f54580-965f-11eb-9652-5898fe0530ed.png)
+
+    * (위 그림 참고) 먼저 Layout Manager가 사용자의 스크롤에 의해 화면에서 제거되어야 할 ItemView의 position을 계산합니다. 그리고 RecyclerView에게 해당 position의 ItemView를 화면에서 제거해야 한다고 알립니다. 그럼 RecyclerView는 화면에서 그 ItemView를 떼어낸 후(=detach) Adapter에게 떼어냈다고 알려줍니다. 그럼 이제 떼어진 ItemView를 Cache에 저장해 놓을지 말지를 결정해야 합니다.
+
+    * ![18](https://user-images.githubusercontent.com/31889335/113583008-0c2b6a80-9664-11eb-9f15-1211fb1566d3.png)
+
+    * (위 그림 참고) Cache에 저장해 놓을지 말지는 위와 같은 과정을 통해 결정됩니다. 먼저 RecyclerView가 Cache에게 해당 position에 배치되는 ItemView가 Cache에 저장해놓을만 한 것인지 유효성을 물어봅니다. 즉, 이 position에 배치될 ItemView가 재사용률이 높냐고 물어보는 것입니다. 만약 Cache에서 해당 ItemView는 계속 저장해놓을만 하다. 즉, 유효하다 라고 답한다면 해당 ItemView를 Cache에 계속 저장하도록 결정합니다.
+
+    * (위 그림 참고) Cache는 용량이 제한적이기 때문에 Cache에 남아있는 시간이 가장 긴 ItemView를 Cache에서 제거하여 용량 부족을 방지합니다. Cache에 오래 남아있었다는 것은 Cache에 저장된 이후로 재사용이 안 되었다는 것이기 때문에 앞으로도 재사용될 가능성이 적다고 판단하기 때문입니다. Cache는 Recycled Pool에게 가장 오래된 ItemView를 전달하고 Recycled Pool은 다시 Adapter에게 이 ItemView는 메모리에서 아예 제거해도 된다(=해당 ItemView의 인스턴스를 메모리에서 제거)고 알립니다. 이 과정을 통해 Cache에 어떤 ItemView들이 어떻게 얼만큼 저장되는지 결정되는 것입니다.
+
+    * 따라서 RecyclerView가 Cache에게 요청하는 유효성 체크에 대한 응답은 Cache에 해당 ItemView가 저장되어 있는지 없는지에 의해 유효/무효가 결정되는 것입니다.
+
+* __ViewHolder의 lifecycle - 소멸편__
+
+    * 그럼 ViewHolder는 언제 메모리에서 소멸될까요? ViewHolder가 메모리에서 소멸되는 경우는 2가지 경우가 있습니다.
 
     > 조금만 기다려주세요 열심히 공부 중입니다 :)
+    > 21분 50초부터 이어서 보기..
+   
